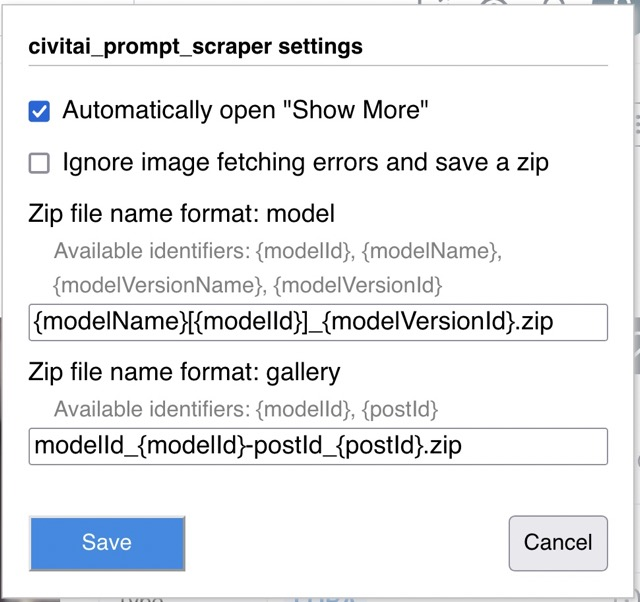
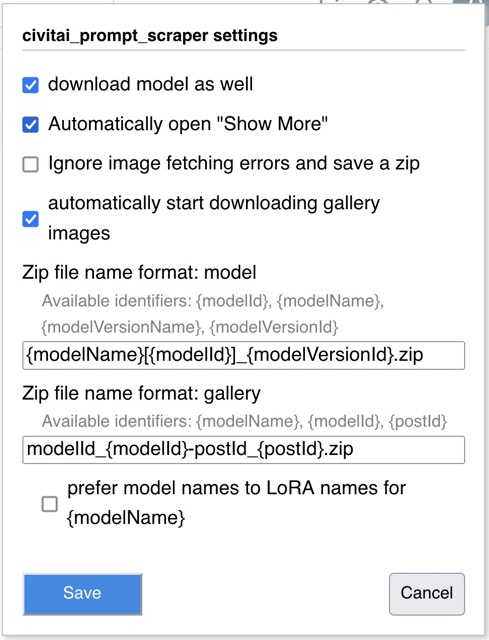
bump up to 1.2.14

diff --git a/dist/prompt_scraper.user.js b/dist/prompt_scraper.user.js
@@ -1,6 +1,6 @@
 // ==UserScript==
 // @name        Prompt Scraper - civitai.com
-// @version     1.2.13
+// @version     1.2.14
 // @namespace   https://github.com/craftgear/civitai_prompt_scraper
 // @description download images and prompts as a zip file
 // @license     MIT
@@ -103,7 +103,7 @@ const $292fc7f9388c589b$export$b0c8f381295da638 = `
 
 
 var $39e7bd012fbaed99$exports = {};
-$39e7bd012fbaed99$exports = JSON.parse('{"name":"civitai_prompt_scraper","browserslist":"> 5%, last 1 versions, not dead","version":"1.2.13","description":"","source":"src/prompt_scraper.user.ts","browser ":"dist/prompt_scraper.user.js","targets":{"default":{"context":"browser","sourceMap":false,"includeNodeModules":true,"optimize":true}},"scripts":{"type-check":"tsc --noEmit","lint":"eslint","format":"prettier --write .","watch":"parcel watch","build":"rm -rf .parcel-cache/*; parcel build; zip -v -j ./dist/prompt_scraper.zip ./dist/prompt_scraper.user.js","clean":"rm ./dist/*","test":"echo \\"Error: no test specified\\" && exit 1"},"author":"Watanabe, Shunsuke","license":"MIT","devDependencies":{"@damoclark/parcel-optimizer-userscript":"^0.0.2","@parcel/packager-ts":"^2.8.3","@parcel/transformer-typescript-types":"^2.8.3","@tsconfig/recommended":"^1.0.2","@types/file-saver":"^2.0.5","@types/lodash":"^4.14.191","@typescript-eslint/eslint-plugin":"^5.52.0","@typescript-eslint/parser":"^5.52.0","@violentmonkey/types":"^0.1.5","eslint":"^8.34.0","eslint-config-standard-with-typescript":"^34.0.0","eslint-plugin-import":"^2.27.5","eslint-plugin-n":"^15.6.1","eslint-plugin-promise":"^6.1.1","parcel":"^2.8.3","prettier":"^2.8.4","rollup-plugin-cleanup":"^3.2.1","typescript":"^4.9.5"},"dependencies":{"@violentmonkey/url":"^0.1.0","@zip.js/zip.js":"^2.6.63","file-saver":"^2.0.5","html2canvas":"^1.4.1","lodash":"^4.17.21","wazip":"^0.1.0"}}');
+$39e7bd012fbaed99$exports = JSON.parse('{"name":"civitai_prompt_scraper","browserslist":"> 5%, last 1 versions, not dead","version":"1.2.14","description":"","source":"src/prompt_scraper.user.ts","browser ":"dist/prompt_scraper.user.js","targets":{"default":{"context":"browser","sourceMap":false,"includeNodeModules":true,"optimize":true}},"scripts":{"type-check":"tsc --noEmit","lint":"eslint","format":"prettier --write .","watch":"parcel watch","build":"rm -rf .parcel-cache/*; parcel build; zip -v -j ./dist/prompt_scraper.zip ./dist/prompt_scraper.user.js","clean":"rm ./dist/*","test":"echo \\"Error: no test specified\\" && exit 1"},"author":"Watanabe, Shunsuke","license":"MIT","devDependencies":{"@damoclark/parcel-optimizer-userscript":"^0.0.2","@parcel/packager-ts":"^2.8.3","@parcel/transformer-typescript-types":"^2.8.3","@tsconfig/recommended":"^1.0.2","@types/file-saver":"^2.0.5","@types/lodash":"^4.14.191","@typescript-eslint/eslint-plugin":"^5.52.0","@typescript-eslint/parser":"^5.52.0","@violentmonkey/types":"^0.1.5","eslint":"^8.34.0","eslint-config-standard-with-typescript":"^34.0.0","eslint-plugin-import":"^2.27.5","eslint-plugin-n":"^15.6.1","eslint-plugin-promise":"^6.1.1","parcel":"^2.8.3","prettier":"^2.8.4","rollup-plugin-cleanup":"^3.2.1","typescript":"^4.9.5"},"dependencies":{"@violentmonkey/url":"^0.1.0","@zip.js/zip.js":"^2.6.63","file-saver":"^2.0.5","html2canvas":"^1.4.1","lodash":"^4.17.21","wazip":"^0.1.0"}}');
 
 
 

diff --git a/src/prompt_scraper.meta.js b/src/prompt_scraper.meta.js
@@ -1,6 +1,6 @@
 // ==UserScript==
 // @name        Prompt Scraper - civitai.com
-// @version     1.2.13
+// @version     1.2.14
 // @namespace   https://github.com/craftgear/civitai_prompt_scraper
 // @description download images and prompts as a zip file
 // @license     MIT

diff --git a/README.md b/README.md
@@ -11,7 +11,9 @@ This works for ViolentMokey in both Chrome and Firefox.
   <br/>
   <br/>
 
-Download button on a model page to dowlonad preview images, preview images' metadata and model metadata.
+It adds a download button on a model page to dowlonad preview images, preview images' metadata and model metadata.
+
+You can also start downloading a model itself when you click the button.
 
 <img src="./_screenshots/model.jpeg" width="50%" />
 
